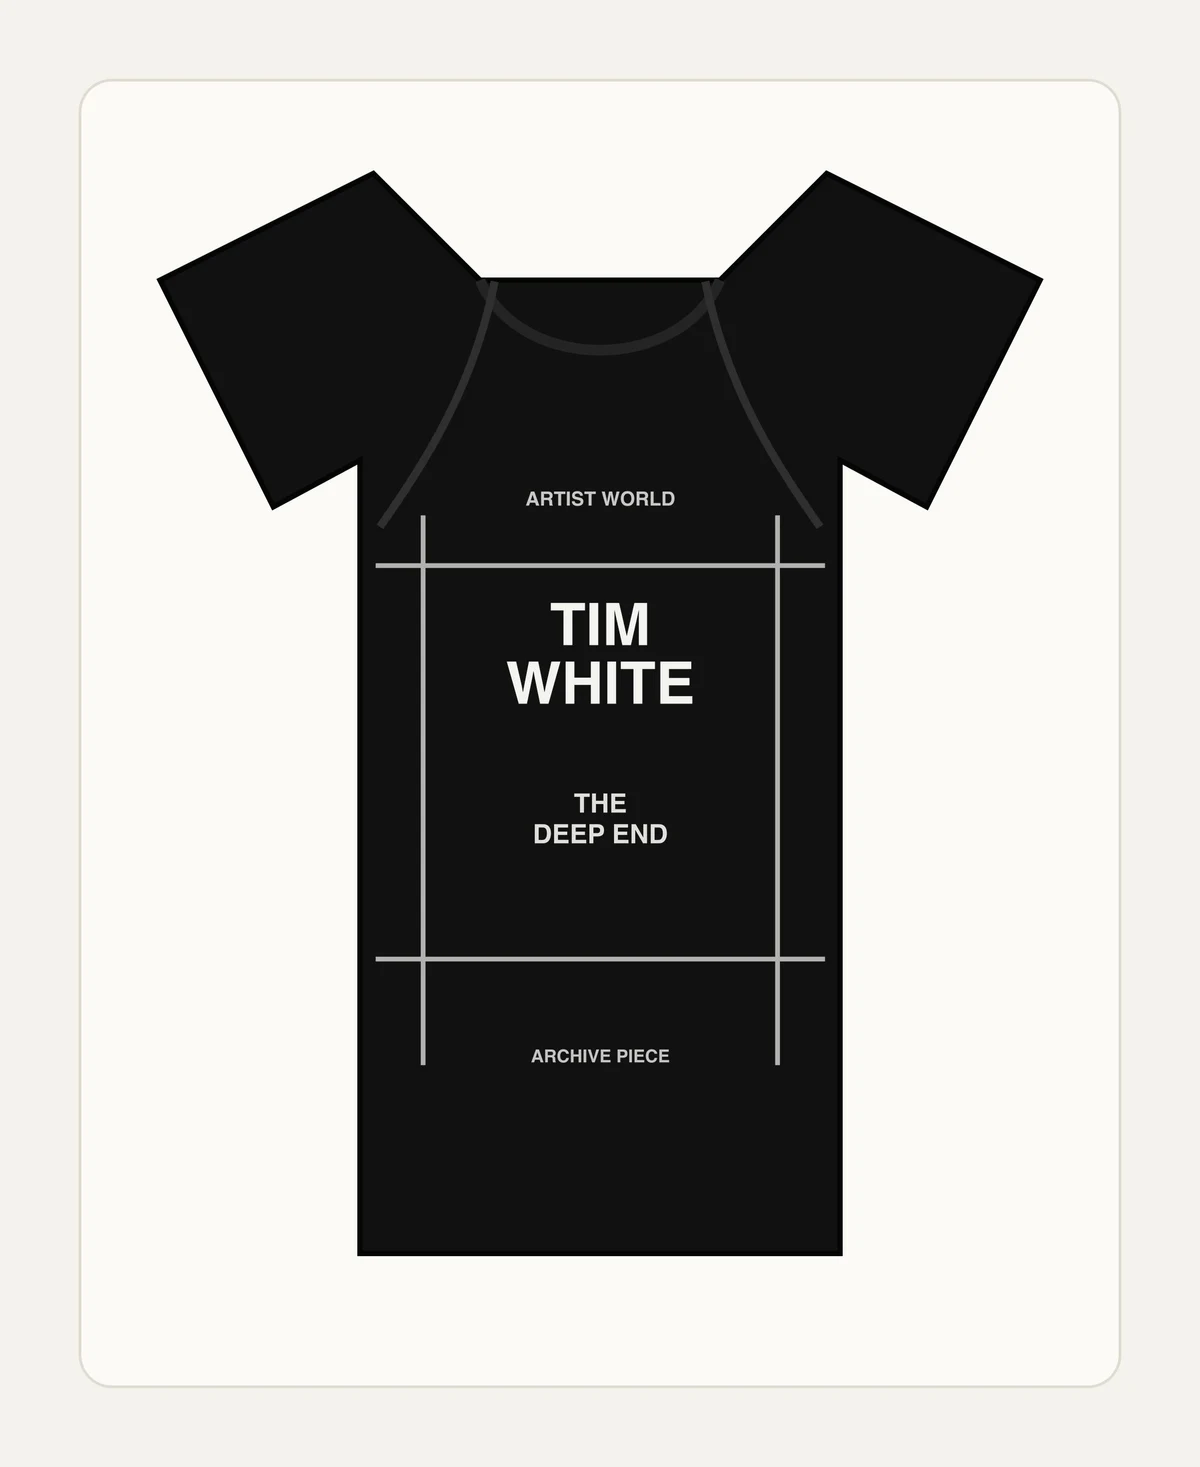
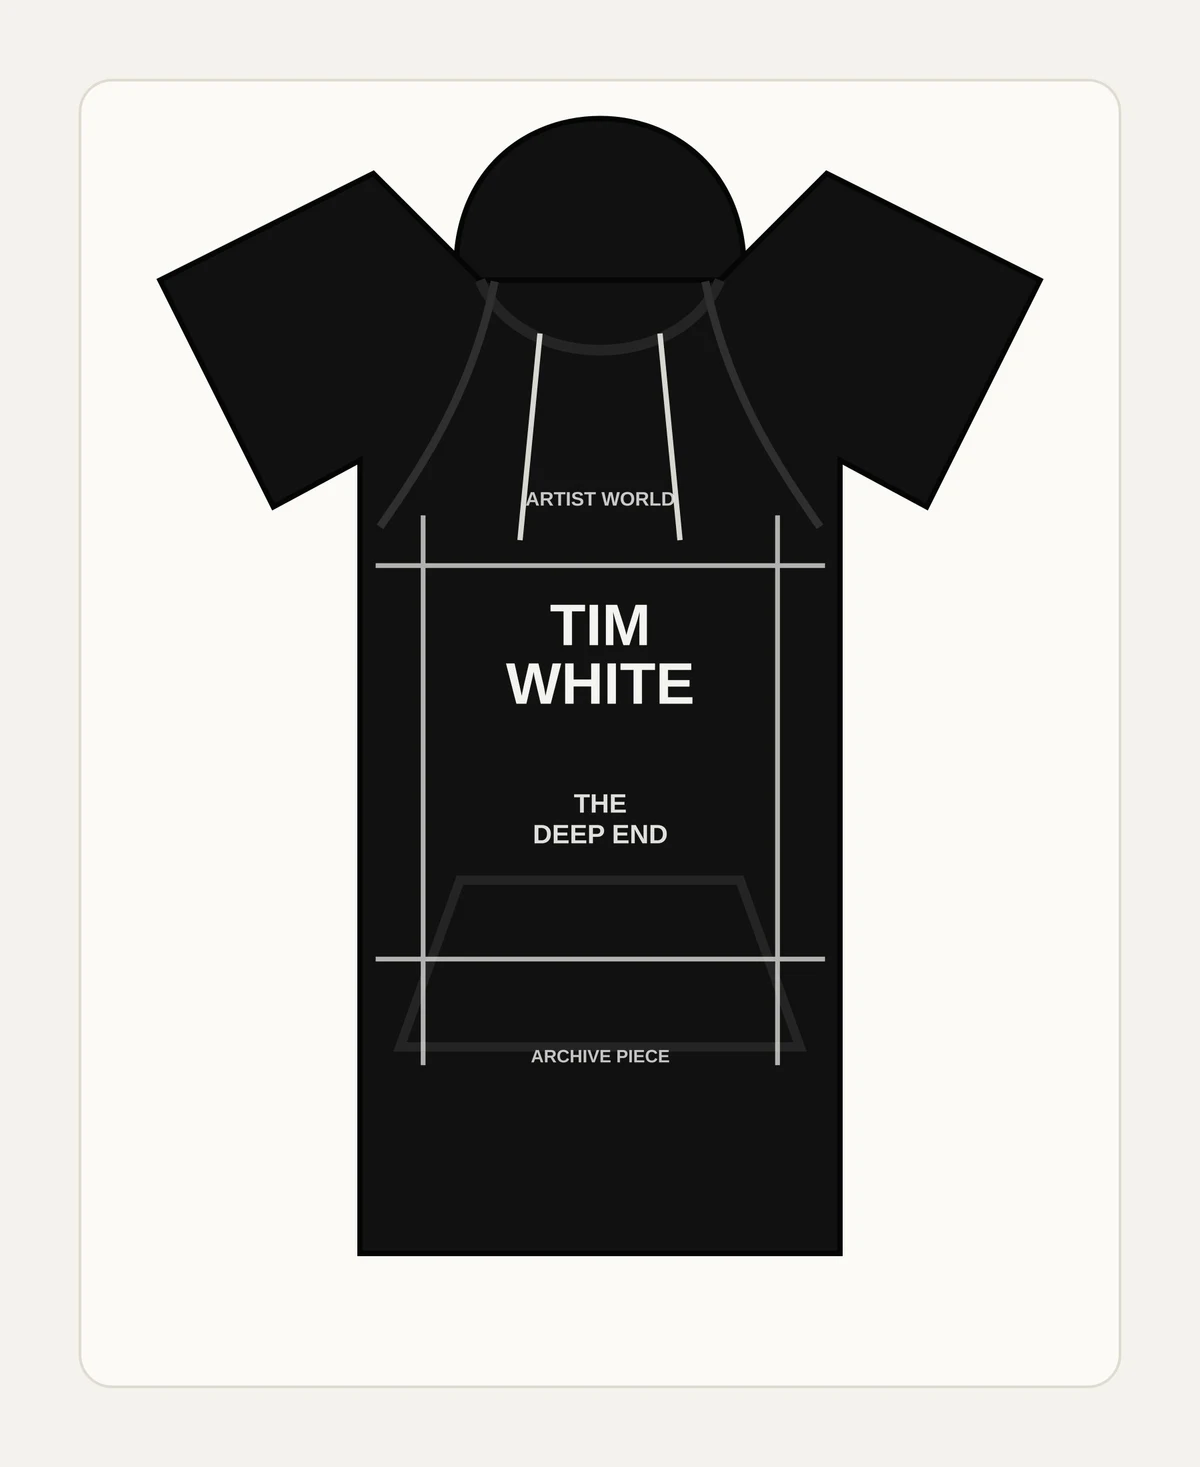
fix(marketing): make instant merch proof shippable
Cover the proof generator so exact-head changed-line coverage passes.

Override the global hero clamp and render a canonical hoodie silhouette.

diff --git a/apps/web/scripts/generate-instant-merch-proof.test.ts b/apps/web/scripts/generate-instant-merch-proof.test.ts
@@ -1,0 +1,95 @@
+import { mkdtemp, readdir, readFile, rm } from 'node:fs/promises';
+import { tmpdir } from 'node:os';
+import { join } from 'node:path';
+import { afterEach, describe, expect, it, vi } from 'vitest';
+
+const { buildPrintSvgMock, renderMockupMock, sharpMock } = vi.hoisted(() => ({
+  buildPrintSvgMock: vi.fn(({ designName }: { readonly designName: string }) =>
+    Buffer.from(`svg:${designName}`)
+  ),
+  renderMockupMock: vi.fn(async (printFile: Buffer, productType: string) =>
+    Buffer.from(`mockup:${productType}:${printFile.toString()}`)
+  ),
+  sharpMock: vi.fn((input: Buffer) => {
+    const pipeline = {
+      png: vi.fn(() => pipeline),
+      resize: vi.fn(() => pipeline),
+      webp: vi.fn(() => pipeline),
+      toBuffer: vi.fn(async () => Buffer.from(`rendered:${input.toString()}`)),
+    };
+    return pipeline;
+  }),
+}));
+
+vi.mock('sharp', () => ({ default: sharpMock }));
+vi.mock('@/lib/merch/artwork', () => ({
+  buildPrintSvg: buildPrintSvgMock,
+  renderMockup: renderMockupMock,
+}));
+
+import { generateInstantMerchProofs } from './generate-instant-merch-proof';
+
+const temporaryRoots: string[] = [];
+
+afterEach(async () => {
+  vi.restoreAllMocks();
+  buildPrintSvgMock.mockClear();
+  renderMockupMock.mockClear();
+  sharpMock.mockClear();
+  await Promise.all(
+    temporaryRoots.splice(0).map(root => rm(root, { recursive: true }))
+  );
+});
+
+describe('generateInstantMerchProofs', () => {
+  it('writes print and garment mockup proofs for every canonical concept', async () => {
+    const root = await mkdtemp(join(tmpdir(), 'jovie-instant-merch-proof-'));
+    temporaryRoots.push(root);
+    const outDir = join(root, 'nested', 'merch');
+    const log = vi.spyOn(console, 'log').mockImplementation(() => undefined);
+
+    const outputPaths = await generateInstantMerchProofs(outDir);
+
+    expect(buildPrintSvgMock.mock.calls.map(([params]) => params)).toEqual([
+      {
+        artistName: 'Tim White',
+        designName: 'Never Say A Word',
+        lane: 'band_tour_uniform',
+        concept: 'Single lyric line over the release artwork palette.',
+      },
+      {
+        artistName: 'Tim White',
+        designName: 'The Deep End',
+        lane: 'artist_world_artifact',
+        concept: 'Cover-art world on a heavyweight hoodie.',
+      },
+      {
+        artistName: 'Tim White',
+        designName: 'Take Me Over',
+        lane: 'fashion_graphic_item',
+        concept: 'Minimal wordmark treatment on a limited cap.',
+      },
+    ]);
+    expect(
+      renderMockupMock.mock.calls.map(([, productType]) => productType)
+    ).toEqual(['premium tee', 'premium hoodie', 'structured cap']);
+
+    const expectedFiles = [
+      'never-say-a-word-tee-mockup.webp',
+      'never-say-a-word-tee-print.webp',
+      'take-me-over-cap-mockup.webp',
+      'take-me-over-cap-print.webp',
+      'the-deep-end-hoodie-mockup.webp',
+      'the-deep-end-hoodie-print.webp',
+    ];
+    await expect(readdir(outDir)).resolves.toEqual(expectedFiles);
+    expect(
+      outputPaths.map(path => path.slice(outDir.length + 1)).sort()
+    ).toEqual(expectedFiles);
+    await expect(
+      readFile(join(outDir, 'never-say-a-word-tee-mockup.webp'), 'utf8')
+    ).resolves.toContain('mockup:premium tee');
+    expect(sharpMock).toHaveBeenCalledTimes(9);
+    expect(log).toHaveBeenCalledTimes(6);
+  });
+});

diff --git a/apps/web/scripts/generate-instant-merch-proof.ts b/apps/web/scripts/generate-instant-merch-proof.ts
@@ -15,12 +15,13 @@
  */
 
 import { mkdirSync, writeFileSync } from 'node:fs';
-import { join } from 'node:path';
+import { join, resolve } from 'node:path';
+import { fileURLToPath } from 'node:url';
 import sharp from 'sharp';
 import { buildPrintSvg, renderMockup } from '@/lib/merch/artwork';
 import type { MerchDesignLane } from '@/lib/merch/types';
 
-const OUT_DIR = join(process.cwd(), 'public', 'images', 'merch');
+const DEFAULT_OUT_DIR = join(process.cwd(), 'public', 'images', 'merch');
 
 interface ProofConcept {
   readonly slug: string;
@@ -54,8 +55,12 @@ const CONCEPTS: readonly ProofConcept[] = [
   },
 ];
 
-async function main() {
-  mkdirSync(OUT_DIR, { recursive: true });
+export async function generateInstantMerchProofs(
+  outDir = DEFAULT_OUT_DIR
+): Promise<readonly string[]> {
+  mkdirSync(outDir, { recursive: true });
+  const outputPaths: string[] = [];
+
   for (const item of CONCEPTS) {
     const printFile = await sharp(
       buildPrintSvg({
@@ -79,16 +84,25 @@ async function main() {
       .webp({ quality: 88 })
       .toBuffer();
 
-    const printPath = join(OUT_DIR, `${item.slug}-print.webp`);
-    const mockupPath = join(OUT_DIR, `${item.slug}-mockup.webp`);
+    const printPath = join(outDir, `${item.slug}-print.webp`);
+    const mockupPath = join(outDir, `${item.slug}-mockup.webp`);
     writeFileSync(printPath, printProof);
     writeFileSync(mockupPath, mockupProof);
+    outputPaths.push(printPath, mockupPath);
     console.log(`wrote ${printPath}`);
     console.log(`wrote ${mockupPath}`);
   }
+
+  return outputPaths;
 }
 
-main().catch(error => {
-  console.error(error);
-  process.exit(1);
-});
+const invokedDirectly =
+  process.argv[1] &&
+  resolve(process.argv[1]) === fileURLToPath(import.meta.url);
+
+if (invokedDirectly) {
+  generateInstantMerchProofs().catch(error => {
+    console.error(error);
+    process.exitCode = 1;
+  });
+}

diff --git a/apps/web/lib/merch/artwork.ts b/apps/web/lib/merch/artwork.ts
@@ -247,7 +247,7 @@ function printRegionForProduct(productType: string | null | undefined) {
 function garmentSvgForProduct(productType: string | null | undefined): string {
   switch (productFamily(productType)) {
     case 'hoodie':
-      return '<path d="M560 260 L720 420 H1080 L1240 260 L1560 420 L1390 760 L1260 690 V1880 H540 V690 L410 760 L240 420 Z" fill="#111" stroke="#050505" stroke-width="8"/><path d="M720 420 C780 560 1020 560 1080 420" fill="none" stroke="#242424" stroke-width="16"/><path d="M742 422 C710 580 640 690 570 790" fill="none" stroke="#2f2f2f" stroke-width="12"/><path d="M1058 422 C1090 580 1160 690 1230 790" fill="none" stroke="#2f2f2f" stroke-width="12"/>';
+      return '<path d="M690 470 C620 80 1180 80 1110 470 L1030 540 C990 440 810 440 770 540 Z" fill="#111" stroke="#050505" stroke-width="8"/><path d="M560 260 L720 420 H1080 L1240 260 L1560 420 L1390 760 L1260 690 V1880 H540 V690 L410 760 L240 420 Z" fill="#111" stroke="#050505" stroke-width="8"/><path d="M720 420 C780 560 1020 560 1080 420" fill="none" stroke="#242424" stroke-width="16"/><path d="M742 422 C710 580 640 690 570 790 M1058 422 C1090 580 1160 690 1230 790" fill="none" stroke="#2f2f2f" stroke-width="12"/><path d="M810 500 L780 810 M990 500 L1020 810" fill="none" stroke="#d8d8d2" stroke-width="8"/><path d="M690 1320 H1110 L1200 1570 H600 Z" fill="none" stroke="#242424" stroke-width="14"/>';
     case 'hat':
       return '<path d="M420 770 C480 480 1320 480 1380 770 L1380 920 H420 Z" fill="#111" stroke="#050505" stroke-width="8"/><path d="M660 775 C760 915 1040 915 1140 775" fill="none" stroke="#242424" stroke-width="16"/><path d="M610 930 C820 1030 1210 1010 1510 910 C1390 1120 650 1130 300 950 Z" fill="#0b0b0c" stroke="#050505" stroke-width="8"/>';
     case 'tee':

diff --git a/apps/web/lib/merch/artwork.test.ts b/apps/web/lib/merch/artwork.test.ts
@@ -28,6 +28,18 @@ async function sampleChest(mockup: Buffer): Promise<{
   return { r: data[0] ?? 0, g: data[1] ?? 0, b: data[2] ?? 0 };
 }
 
+async function sampleHood(mockup: Buffer): Promise<{
+  readonly r: number;
+  readonly g: number;
+  readonly b: number;
+}> {
+  const { data } = await sharp(mockup)
+    .extract({ left: 900, top: 180, width: 1, height: 1 })
+    .raw()
+    .toBuffer({ resolveWithObject: true });
+  return { r: data[0] ?? 0, g: data[1] ?? 0, b: data[2] ?? 0 };
+}
+
 describe('renderMockup', () => {
   it('renders distinct product-aware fallback mockups', async () => {
     const printFile = await buildPrintFile();
@@ -49,6 +61,17 @@ describe('renderMockup', () => {
     expect(tee.equals(hoodie)).toBe(false);
     expect(tee.equals(hat)).toBe(false);
     expect(hoodie.equals(hat)).toBe(false);
+
+    const [teeHood, hoodieHood] = await Promise.all([
+      sampleHood(tee),
+      sampleHood(hoodie),
+    ]);
+    expect(teeHood.r).toBeGreaterThan(200);
+    expect(teeHood.g).toBeGreaterThan(200);
+    expect(teeHood.b).toBeGreaterThan(200);
+    expect(hoodieHood.r).toBeLessThan(80);
+    expect(hoodieHood.g).toBeLessThan(80);
+    expect(hoodieHood.b).toBeLessThan(80);
   });
 
   it('keeps a generated full-bleed graphic visible on the garment', async () => {

diff --git a/apps/web/components/marketing/MarketingHero.tsx b/apps/web/components/marketing/MarketingHero.tsx
@@ -204,12 +204,20 @@ function MarketingHeroTitle({
         className
       )}
       style={
-        maxLines === 3
+        maxLines === 'none'
           ? ({
-              WebkitLineClamp: 3,
-              maxBlockSize: 'calc(3 * 1lh)',
+              display: 'block',
+              maxBlockSize: 'none',
+              overflow: 'visible',
+              WebkitBoxOrient: 'initial',
+              WebkitLineClamp: 'unset',
             } satisfies CSSProperties)
-          : undefined
+          : maxLines === 3
+            ? ({
+                WebkitLineClamp: 3,
+                maxBlockSize: 'calc(3 * 1lh)',
+              } satisfies CSSProperties)
+            : undefined
       }
     >
       {children}

diff --git a/apps/web/app/(marketing)/instant-merch/InstantMerchLanding.test.tsx b/apps/web/app/(marketing)/instant-merch/InstantMerchLanding.test.tsx
@@ -58,8 +58,8 @@ describe('InstantMerchLanding', () => {
     expect(heading.textContent).toBe(copy.hero.title);
     expect(heading.className).not.toMatch(/line-clamp-/);
     expect(heading.className).not.toMatch(/marketing-h1-max-two-lines/);
-    expect(heading.getAttribute('style') ?? '').not.toMatch(
-      /max-block-size|webkit-line-clamp/i
+    expect(heading.getAttribute('style')).toBe(
+      'display: block; max-block-size: none; overflow: visible; -webkit-box-orient: initial; -webkit-line-clamp: unset;'
     );
   });
 

diff --git a/apps/web/components/marketing/MarketingHero.test.tsx b/apps/web/components/marketing/MarketingHero.test.tsx
@@ -170,7 +170,9 @@ describe('MarketingHero source-backed default story', () => {
       'line-clamp-3',
       'marketing-h1-max-two-lines'
     );
-    expect(heading).not.toHaveStyle({ WebkitLineClamp: '3' });
+    expect(heading.getAttribute('style')).toBe(
+      'display: block; max-block-size: none; overflow: visible; -webkit-box-orient: initial; -webkit-line-clamp: unset;'
+    );
   });
 
   it('uses the canonical growing action contract for a landing secondary CTA', () => {
